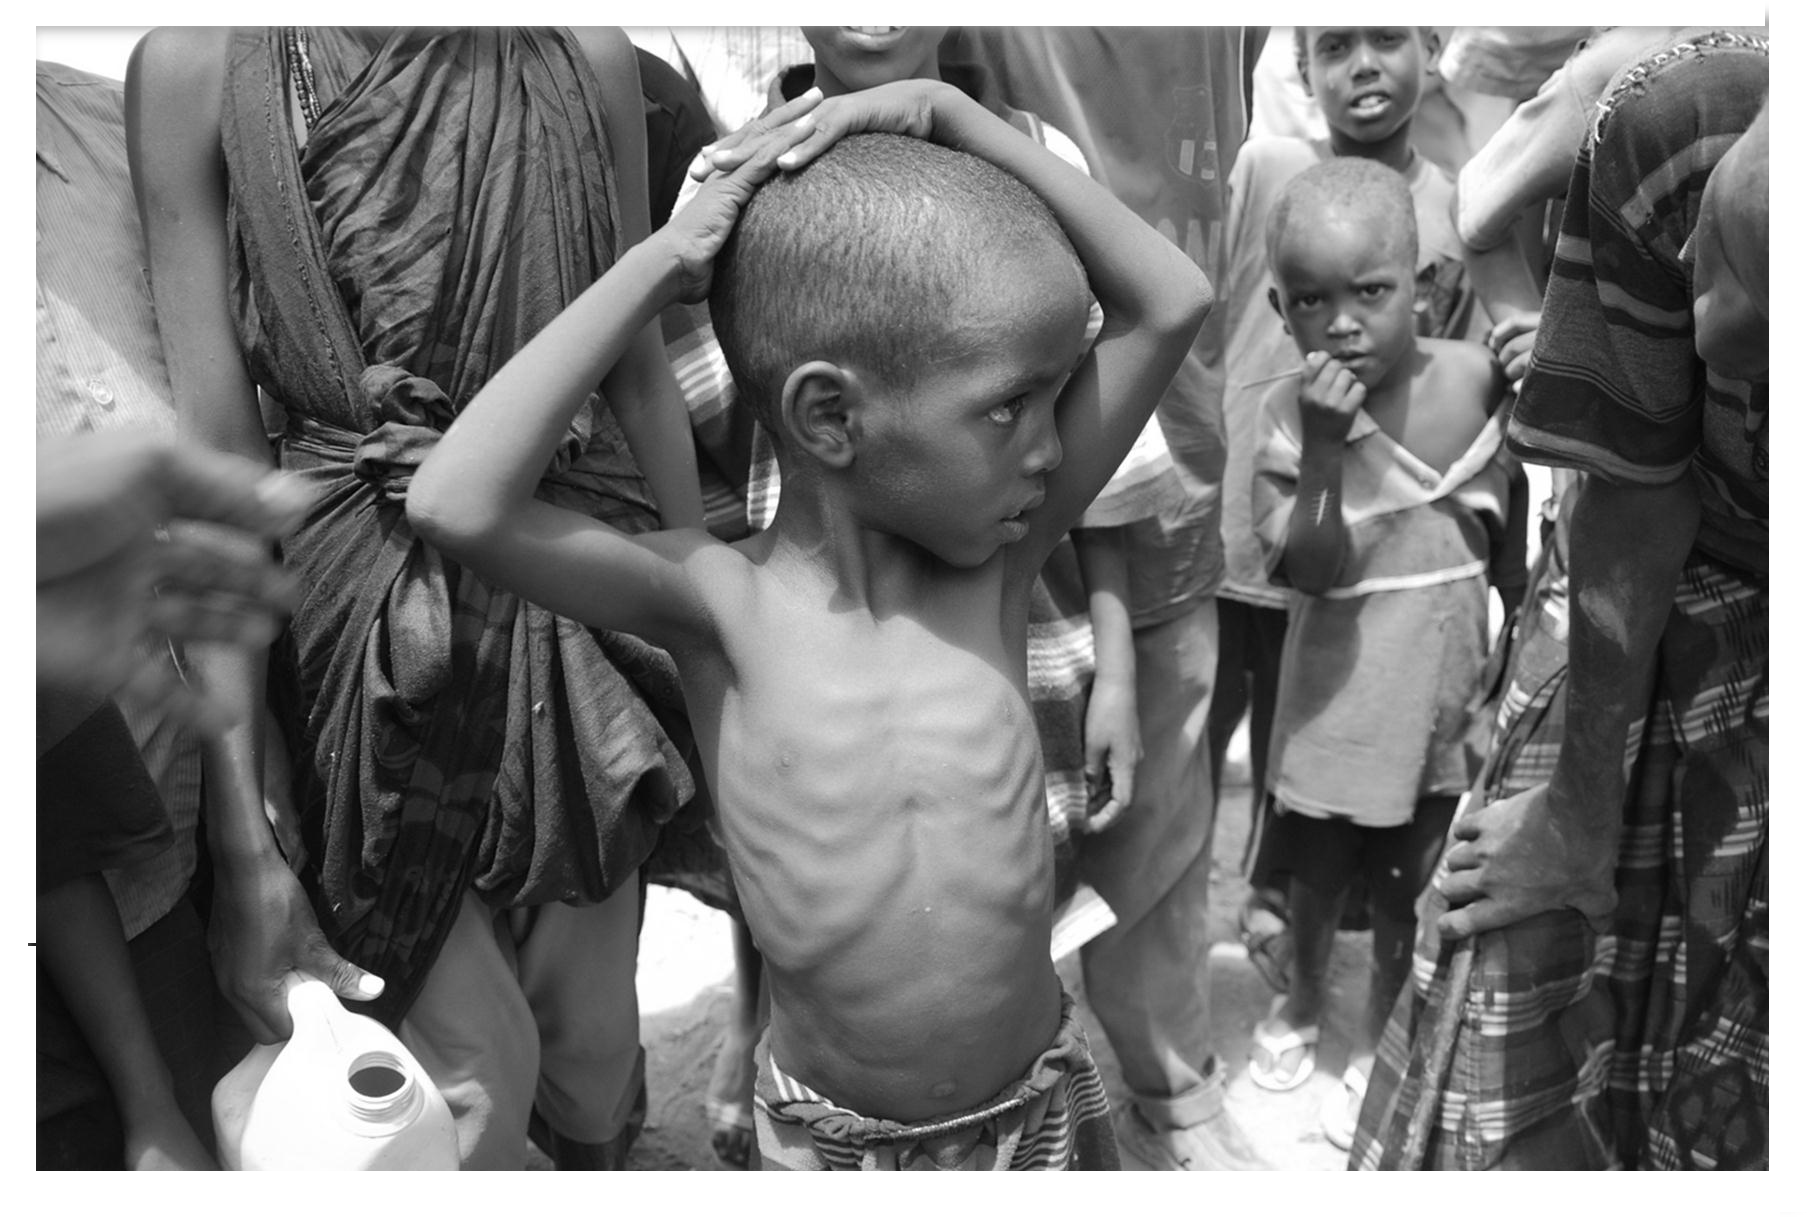
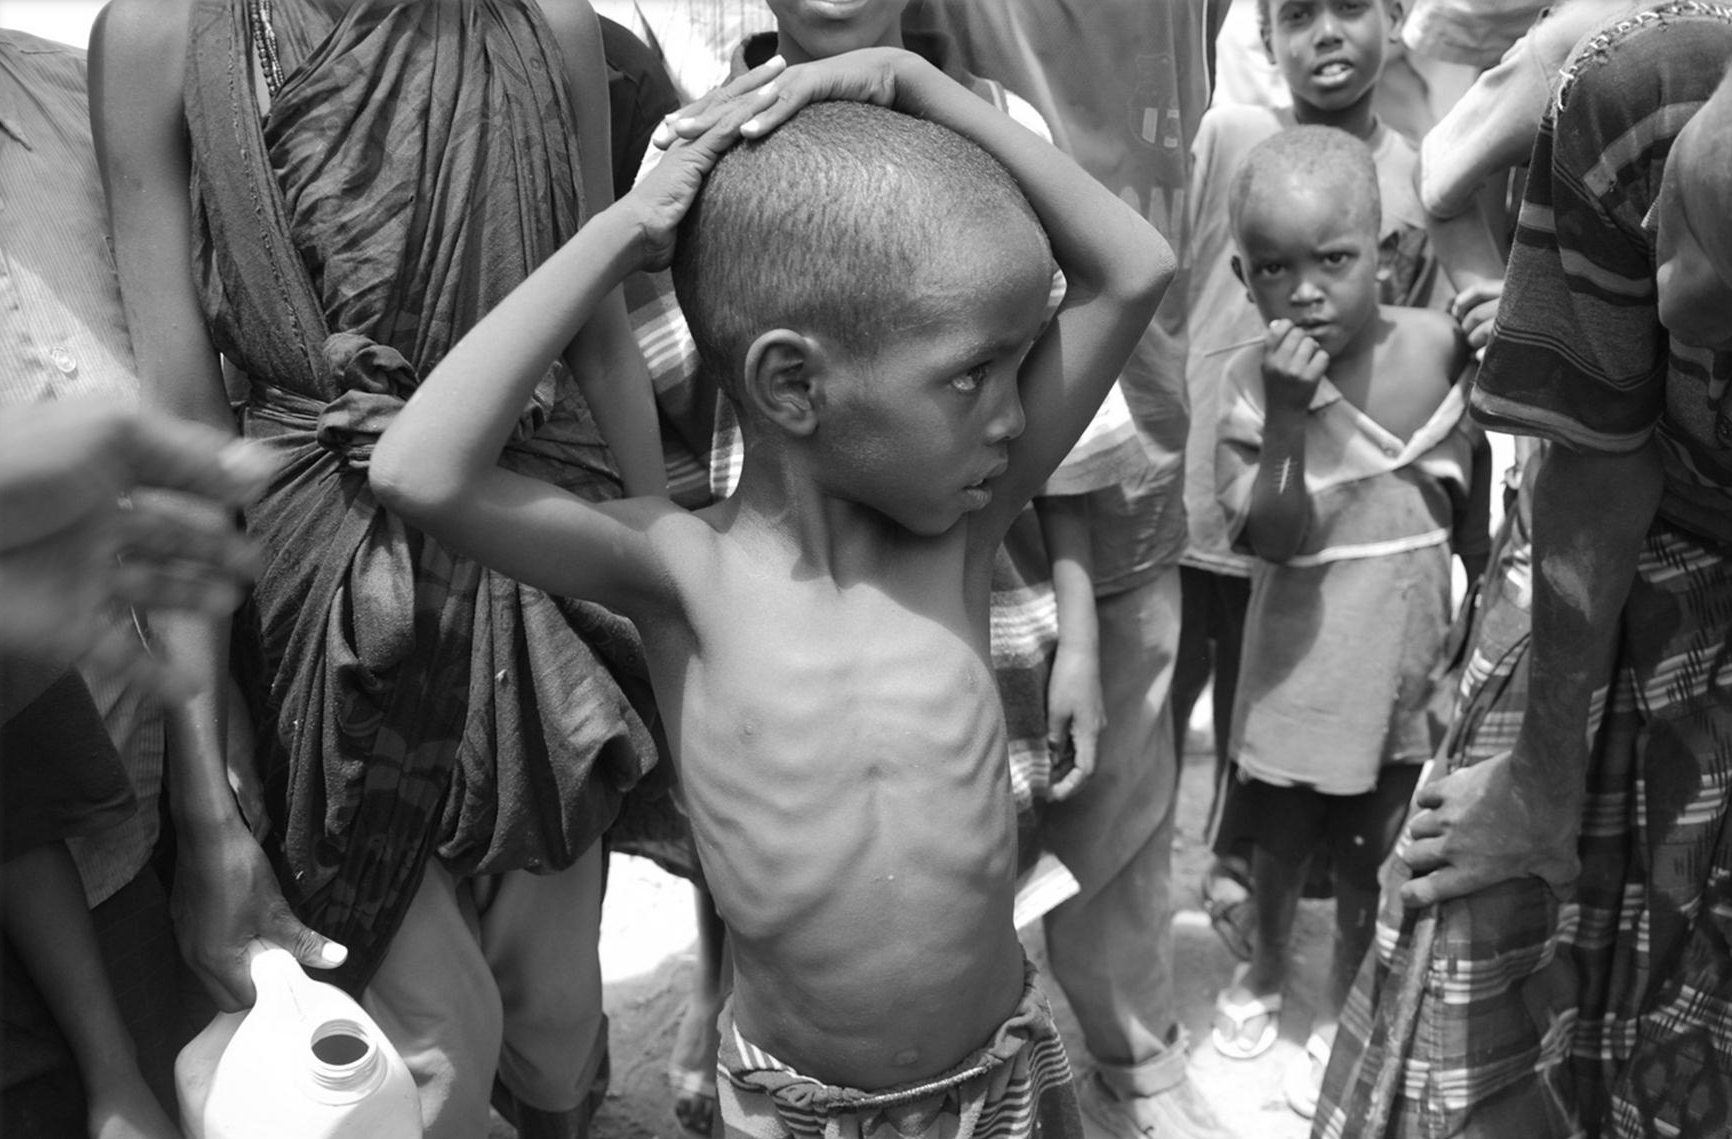
yeah yeah yeah

diff --git a/index.html b/index.html
@@ -21,27 +21,31 @@
                 <li><strong>Exercise 3:</strong><a href="exercises/exercise3.html">MGMT Website Analysis</a></li> 
                 <li><strong>Exercise 4:</strong><a href="exercises/exercise4.html">The xx Website Analysis</a></li> 
                 <li><strong>Exercise 5:</strong><a href="exercises/exercise5.html">Portfolio Analysis</a></li>
-                 <li><strong>Exercise 8:</strong><a href="exercises/Exercise8.pdf" target="_blank">96 Elephants site-map</a></li>
-            </ol>
-        </section> 
-        <section id="projects">
-            <h4>Projects</h4>
-            <ol>
-                <li><strong>Project 1:</strong><a href="project1/index.html">Essay</a></li> 
-                <dd><li><a href="project1/processdocumentation.html">Process Documentation</a></li></dd>
-            </ol>
-        </section>
-        <section id="about"> 
-            <h2>About Me</h2>
-            <img   src="project1/images/Maddie%20Self%20Portrait%20Edited.jpg" alt="Picture of me, Maddie Powell">
-            <p>For the majority of my life I have loved to draw. I can still remember, at an age where you don’t remember much, waking up on Christmas morning and getting a Crayola easel from my dad and being beyond ecstatic. My mom constantly talks about how I was a brat when I was a kid because if one of my crayons broke I would abandon the entire pack and ask for a new one because that single crayon had fallen shorter than the rest. I remember suiting up in an old shirt of my dads, that dragged beneath my feet when I walked because it was so huge, armed with my finger paints and crayons to go make a mess with my imagination on that easel. I dreamt of one day becoming an artist. As I grew that dream shrunk. It wasn’t until my senior year in high school that I found graphic design.</p>
-            <p>I had taken art classes all through out school but never saw a practical application for them. By a twist of fate, the AP Psychology class I wanted to take my senior year was filled so I was placed into an intro to graphic design class. I fell in love fast and hard with graphic design. So much so, that my English teacher hardly ever made me come to class, she sent me into the design classroom every morning to work on posters and signs for her. I even ended up makings her son’s graduation party banners. I found graphic design at the perfect time, because I was in the middle of having an existential crisis, I had no clue what in the hell was I going to do with the rest of my life. Then, bam, I was hit with something I loved, something I enjoyed doing, something I was passionate about. Confucius said it best “Choose a job you love, and you will never have to work a day in your life.”, and that’s what I have found with graphic design.</p>
-            <p>My aspiration as a designer is, in a world so ugly and full of hate, I want to make something beautiful.</p>
-        </section>
-        <footer>
-             <a href="https://github.com/madpowpow" target="_blank">
-            <img src= "project1/images/github.png" id="githublogo" alt="github logo">
+                <li><strong>Exercise 6:</strong><a href="exercises/exercise6.html">Yeah</a></li>
+                <li><strong>Exercise 7:</strong><a href="exercises/exercise7.html">Website Analysis</a></li>
+                <li><strong>Exercise 8:</strong><a href="exercises/Exercise8.pdf" target="_blank">96 Elephants site-map</a></li>
+                <li><strong>Exercise 10:</strong><a href="exercises/exercise10.ai">96 Elephats Wireframes</a>ˆ
+                    </li>
+                    </ol>
+                </section> 
+            <section id="projects">
+                <h4>Projects</h4>
+                <ol>
+                    <li><strong>Project 1:</strong><a href="project1/index.html">Essay</a></li> 
+                    <dd><li><a href="project1/processdocumentation.html">Process Documentation</a></li></dd>
+                </ol>
+            </section>
+            <section id="about"> 
+                <h2>About Me</h2>
+                <img   src="project1/images/Maddie%20Self%20Portrait%20Edited.jpg" alt="Picture of me, Maddie Powell">
+                <p>For the majority of my life I have loved to draw. I can still remember, at an age where you don’t remember much, waking up on Christmas morning and getting a Crayola easel from my dad and being beyond ecstatic. My mom constantly talks about how I was a brat when I was a kid because if one of my crayons broke I would abandon the entire pack and ask for a new one because that single crayon had fallen shorter than the rest. I remember suiting up in an old shirt of my dads, that dragged beneath my feet when I walked because it was so huge, armed with my finger paints and crayons to go make a mess with my imagination on that easel. I dreamt of one day becoming an artist. As I grew that dream shrunk. It wasn’t until my senior year in high school that I found graphic design.</p>
+                <p>I had taken art classes all through out school but never saw a practical application for them. By a twist of fate, the AP Psychology class I wanted to take my senior year was filled so I was placed into an intro to graphic design class. I fell in love fast and hard with graphic design. So much so, that my English teacher hardly ever made me come to class, she sent me into the design classroom every morning to work on posters and signs for her. I even ended up makings her son’s graduation party banners. I found graphic design at the perfect time, because I was in the middle of having an existential crisis, I had no clue what in the hell was I going to do with the rest of my life. Then, bam, I was hit with something I loved, something I enjoyed doing, something I was passionate about. Confucius said it best “Choose a job you love, and you will never have to work a day in your life.”, and that’s what I have found with graphic design.</p>
+                <p>My aspiration as a designer is, in a world so ugly and full of hate, I want to make something beautiful.</p>
+            </section>
+            <footer>
+                <a href="https://github.com/madpowpow" target="_blank">
+                    <img src= "project1/images/github.png" id="githublogo" alt="github logo">
                 </a>
-        </footer>
-    </body>
-</html>
+            </footer>
+            </body>
+        </html>

diff --git a/project 3/Project 3.html b/project 3/Project 3.html
@@ -2,20 +2,21 @@
 <html lang="en">
     <head>
         <title>Project3 Famine in Somalia</title>
+        <link rel="stylesheet"href="project3css.css">
     </head>
     <body>
         <header>
         </header>     
-        <section>
-            <img src="images/openingimage.png" alt="Emaciated Somalian Child"> 
+        <section id="one">
+            <img src="images/BROOO.png">
             <a href="Famine.html"><h2>Famine</h2></a>
         </section>
-        <section>
-            <img src="images/Unknown.jpeg" alt="Casey">
+        <section id="two">
+            <!--<img src="images/Unknown.jpeg" alt="Casey">-->
             <a href="Lovearmy.html"><h2>Love Army For Somalia</h2></a>
         </section>
-        <section>
-            <img src="images/Screen%20Shot%202017-04-02%20at%205.55.17%20PM.png" alt="Turkish airlines' Love Army airplane">  
+        <section id="three">
+            <img id="turk" src="images/turkishair.png" alt="Turkish airlines' Love Army airplane"> 
             <a href="Relief.html"><h2>Relief</h2></a>
         </section>   
         <footer>

diff --git a/project 3/project3css.css b/project 3/project3css.css
@@ -1,0 +1,35 @@
+body {
+    width: 100%;
+    margin: 0;
+    background-color: dimgray
+}
+img {
+    width: 100%;
+}
+img#turk {
+    width: 100%;
+    margin: 0;
+}
+section {
+    width: 100%;
+}
+section#one {
+    text-align: center;
+}
+section#two {
+    text-align: center;
+}
+section#three {
+    text-align: center;
+}
+a {
+    color: ;
+}
+/*section#one {
+    background-image: url(images/BROOO.png);
+    background-repeat: no-repeat;
+}
+section#three {
+    background-image: url(images/turkishair.png);
+    background-repeat: no-repeat;
+}
